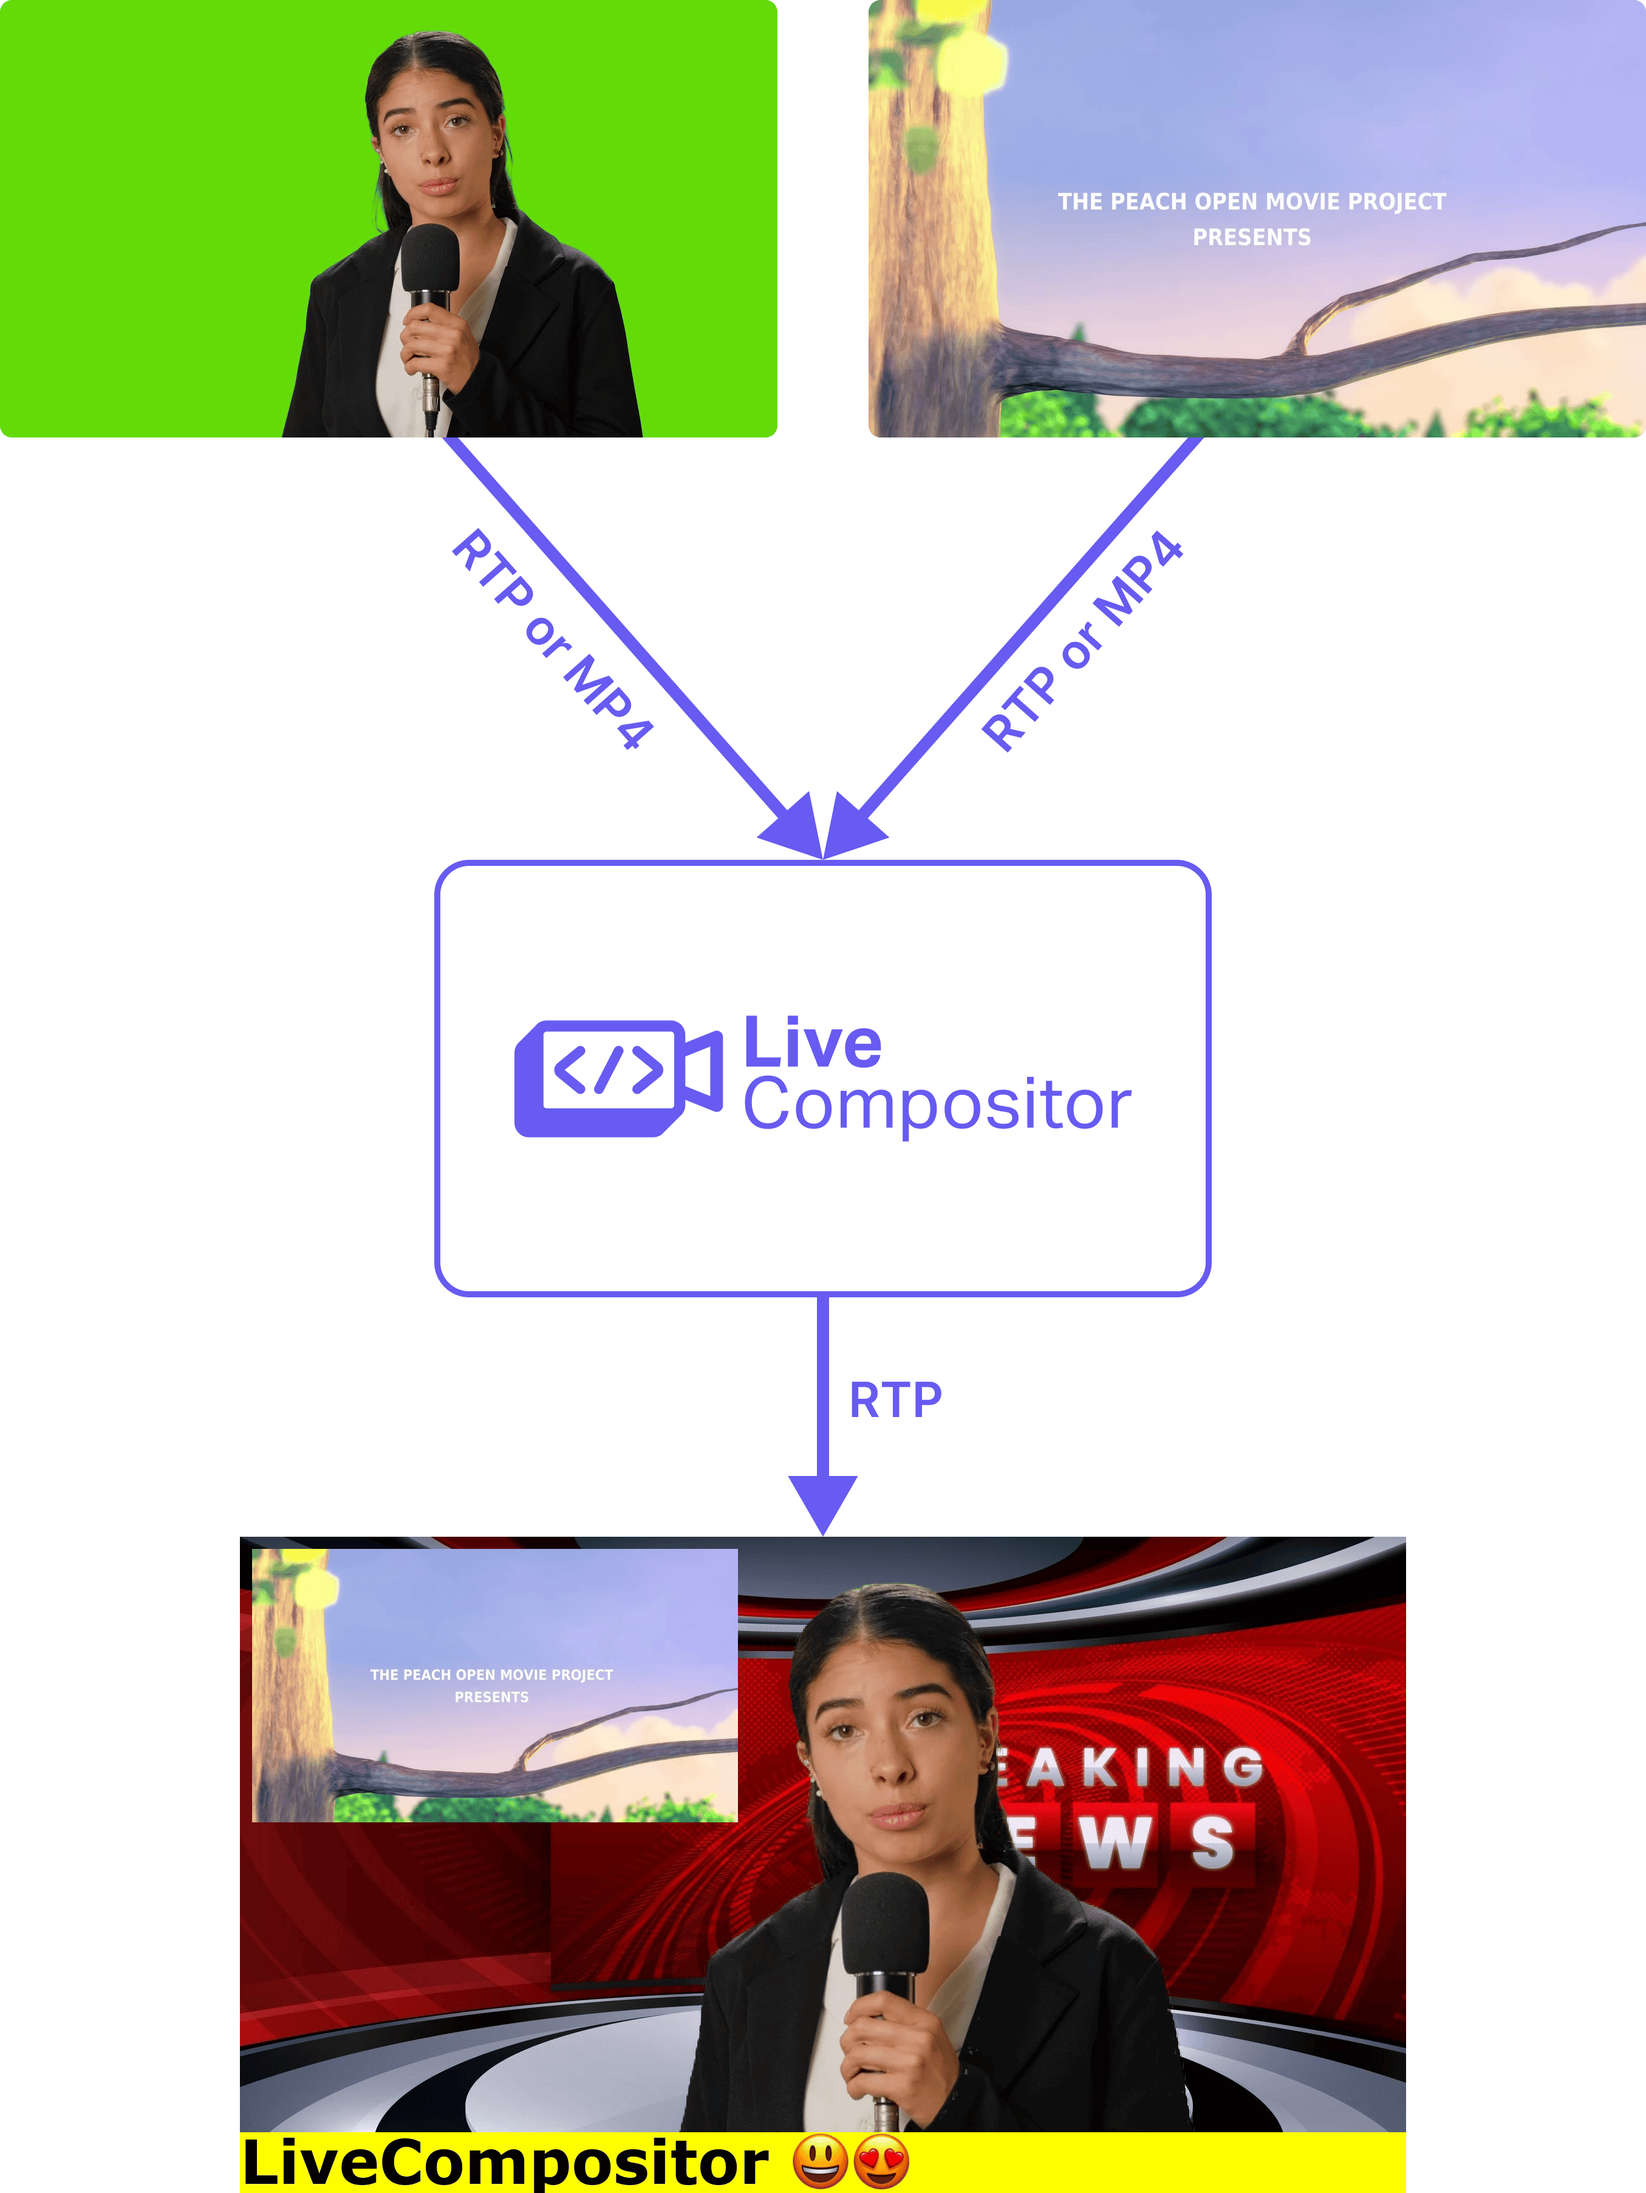
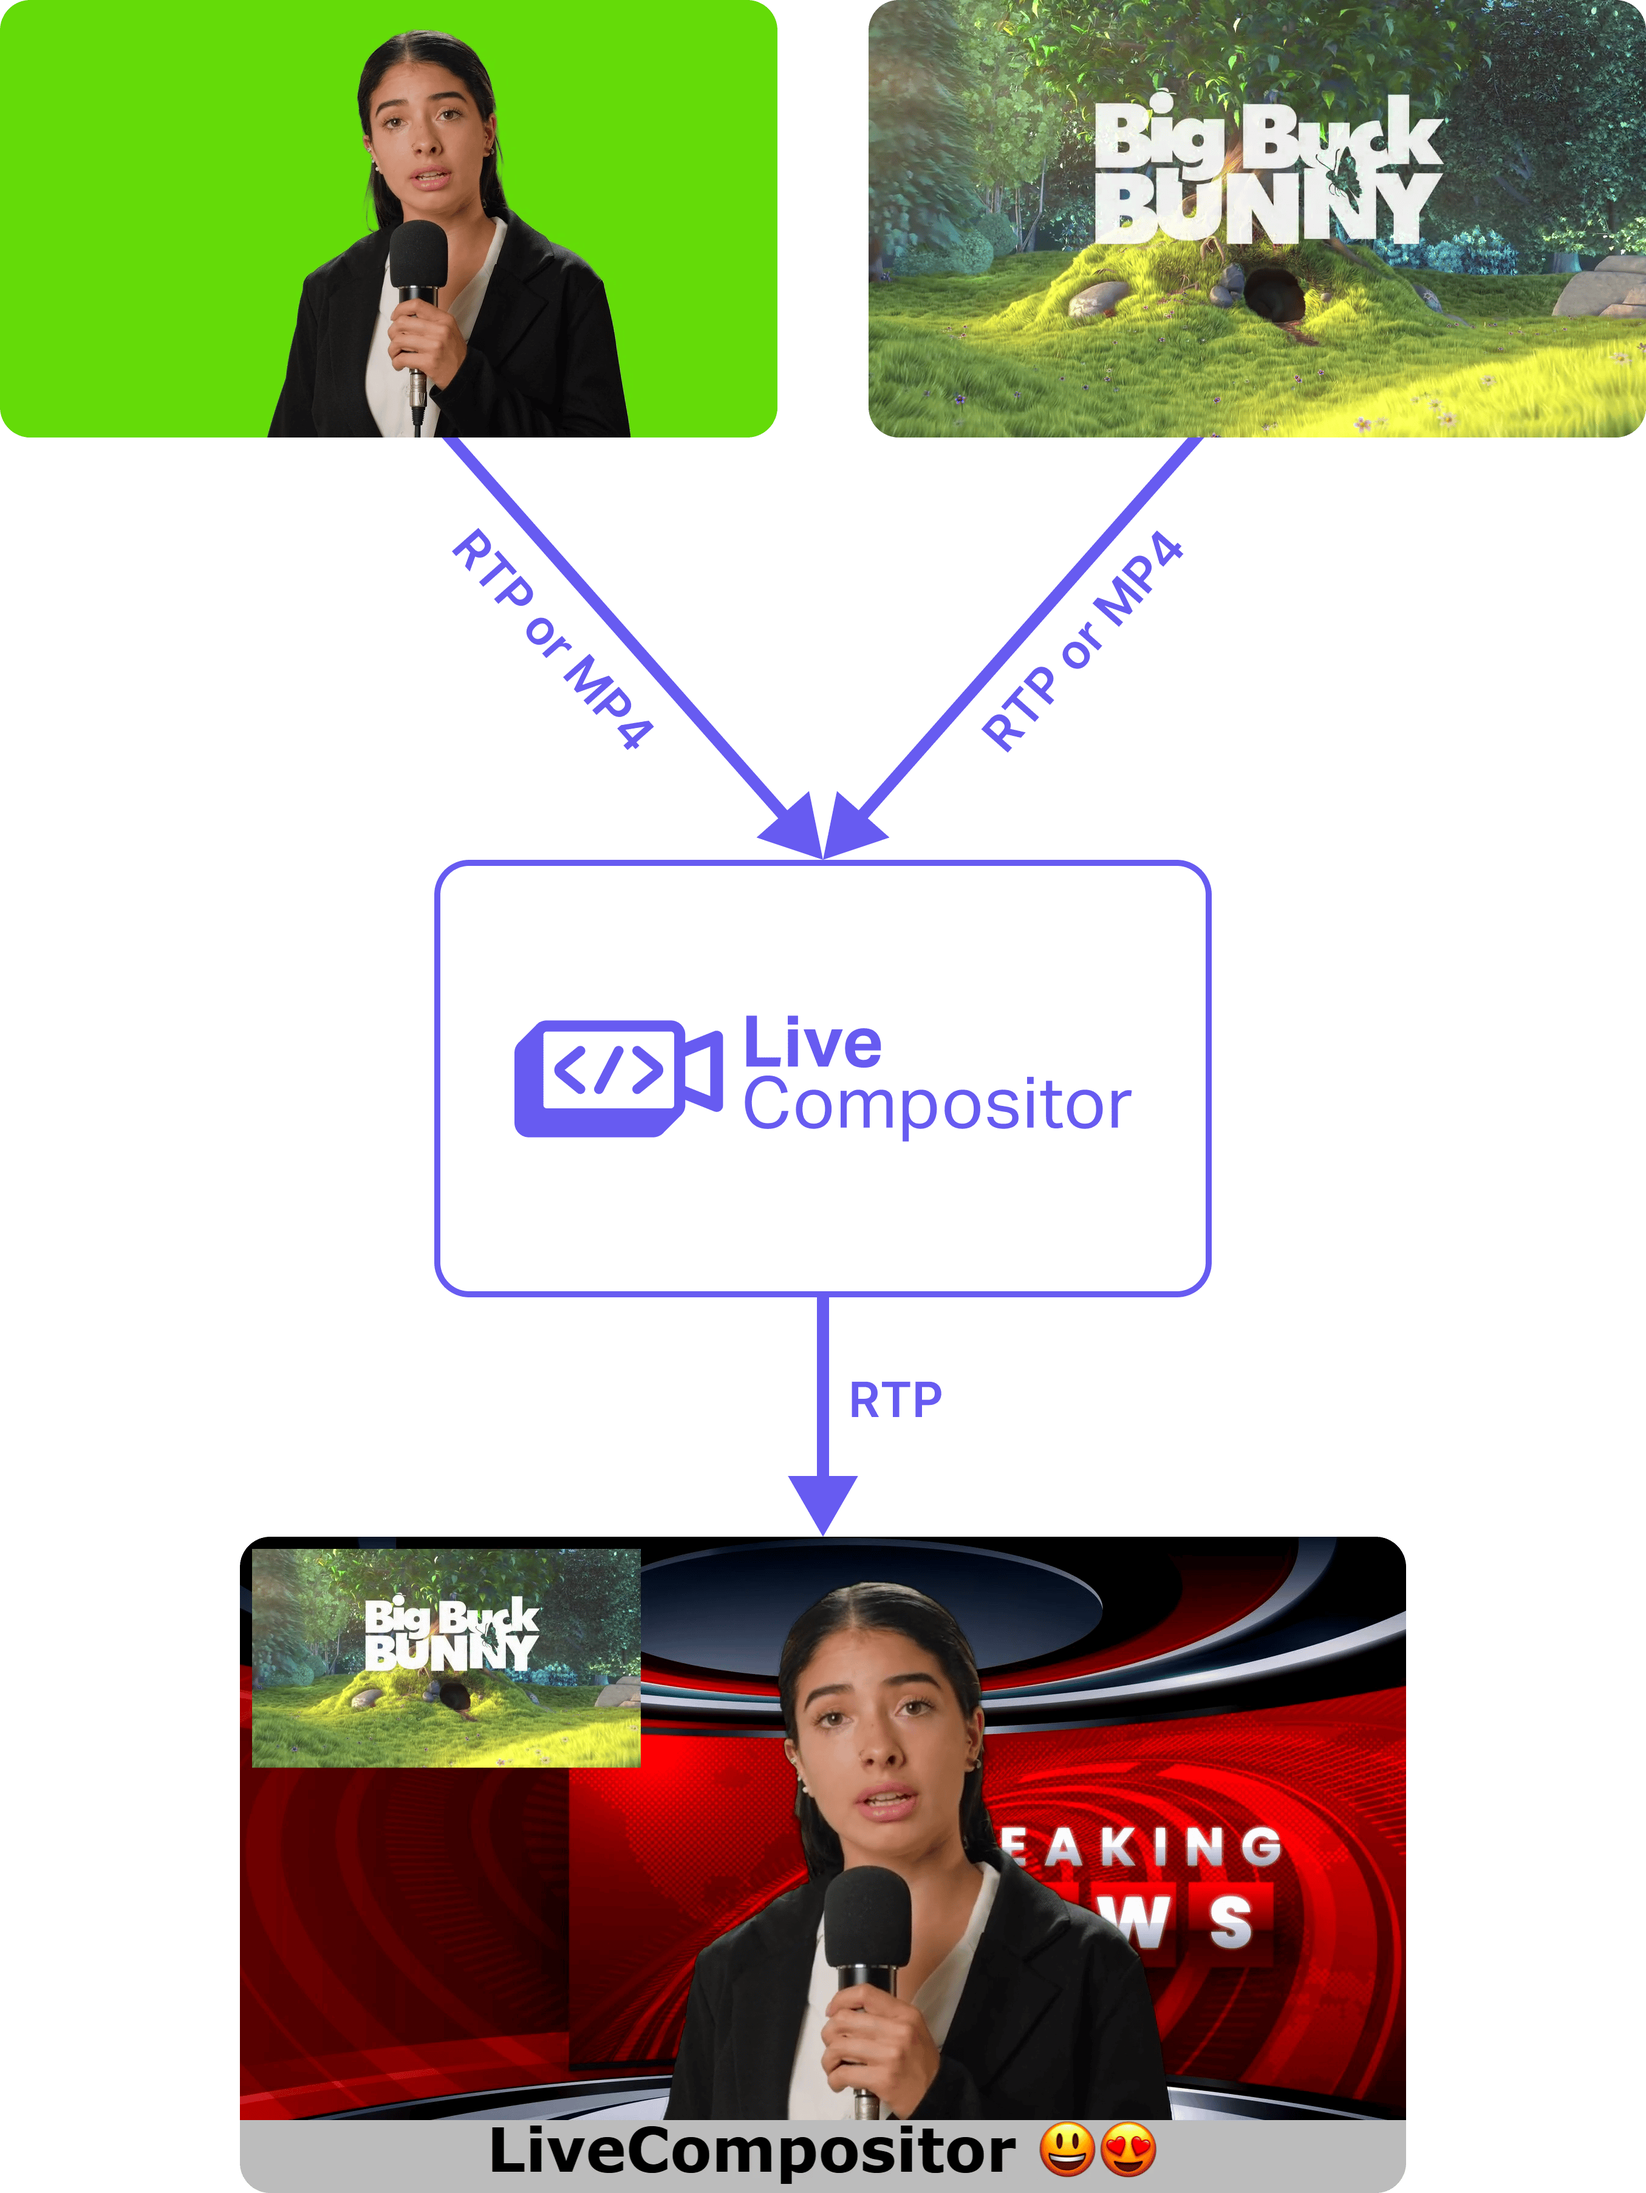
Update "How it works" section

diff --git a/docs/src/components/example_scene.tsx b/docs/src/components/example_scene.tsx
@@ -8,7 +8,7 @@ export default function ExampleScene() {
   "children": [
     {
       "type": "shader",
-      "shader_id": "remove_green_screen",
+      "shader_id": "replace_green_screen",
       "resolution": { "width": 1920, "height": 1080 },
       "children": [
           { "type": "input_stream", "input_id": "tv" },
@@ -17,7 +17,7 @@ export default function ExampleScene() {
     },
     {
       "type": "rescaler",
-      "width": 800, "height": 450,
+      "width": 640, "height": 360,
       "top": 20, "left": 20,
       "child": { 
         "type": "input_stream", "input_id": "bunny"
@@ -25,16 +25,20 @@ export default function ExampleScene() {
     },
     {
       "type": "view",
-      "height": 150,
+      "height": 120,
       "left": 0, "bottom": 0, 
-      "background_color_rgba": "#FFFF00FF",
-      "children": [{
-        "type": "text", 
-        "text": "LiveCompositor 😃😍",
-        "font_size": 100,
-        "weight": "bold",
-        "color_rgba": "#000000FF",
-      }]
+      "background_color_rgba": "#B3B3B3FF",
+      "children": [
+        { "type": "view" },
+        {
+          "type": "text", 
+          "text": "LiveCompositor 😃😍",
+          "font_size": 100,
+          "weight": "bold",
+          "color_rgba": "#000000FF",
+        },
+        { "type": "view" }
+      ]
     }
   ]
 }`}
